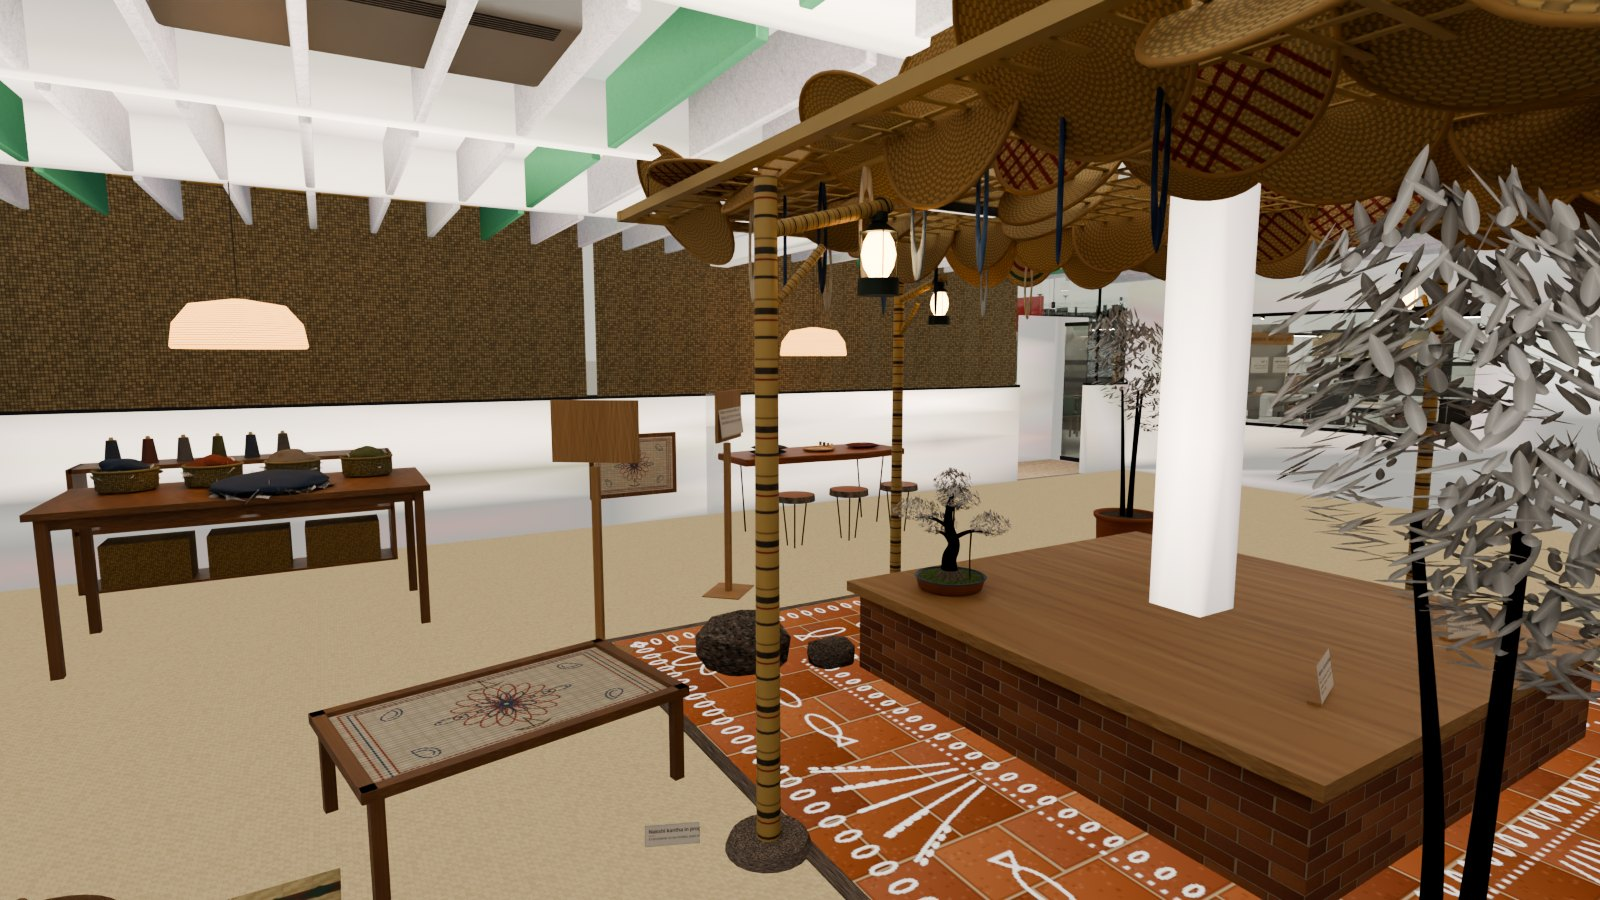
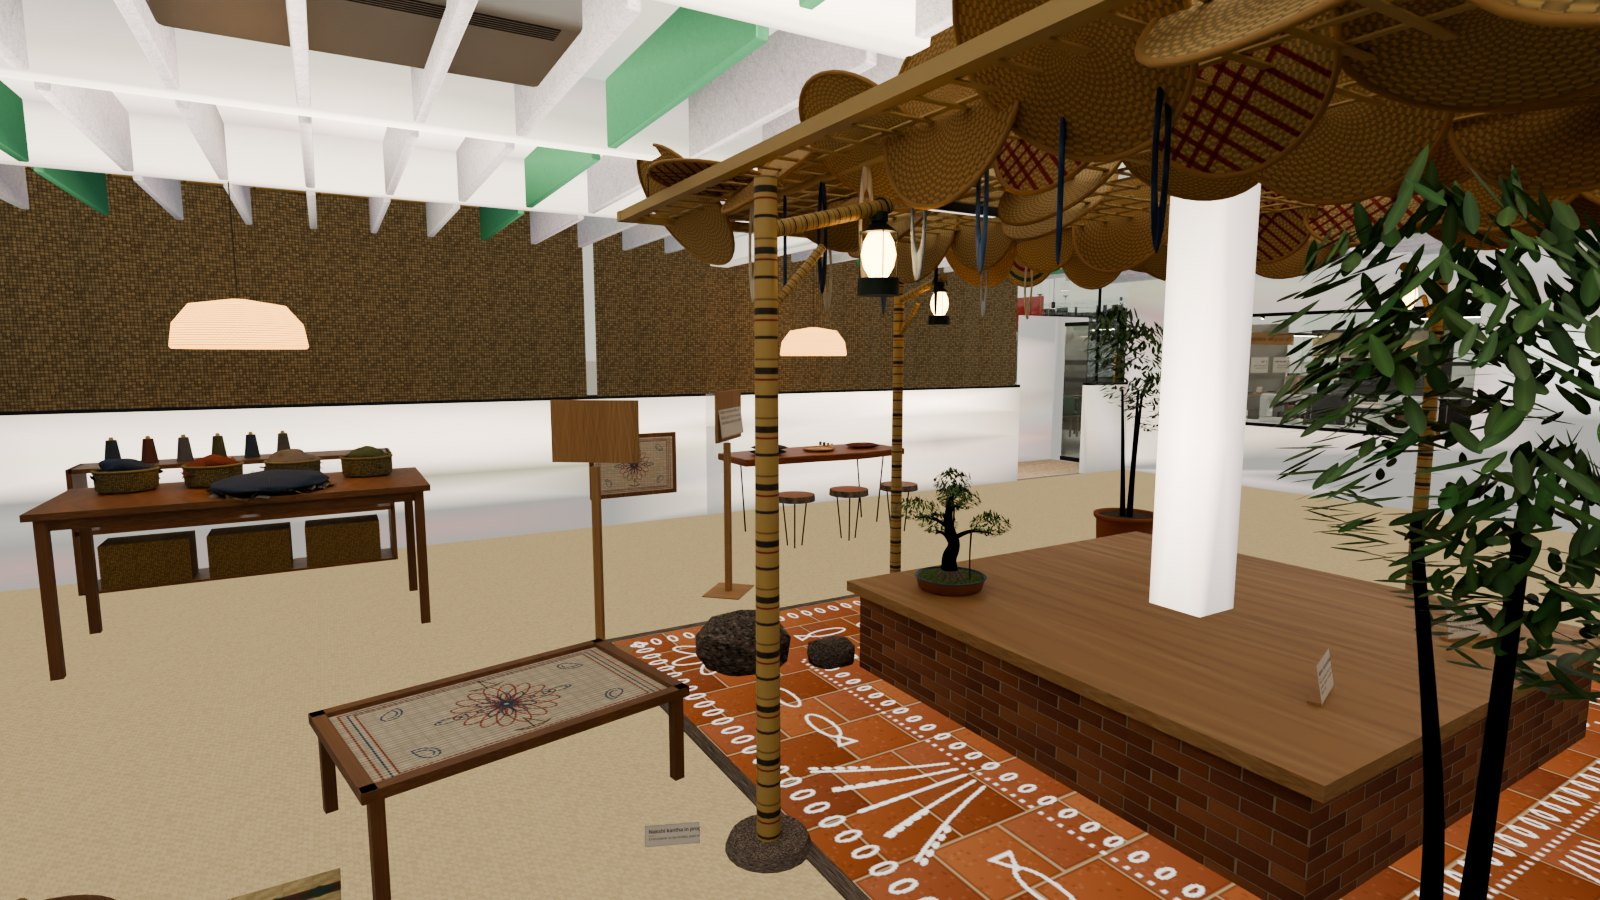
Work in progress: one-line footer while a phone walks (tap for the whole note), gallery check, stop 10 render with green leaves
Claude-Session: https://claude.ai/code/session_019J6nTRSYGkqYLBQiQa9fAH

Changed region(s): [[0.7812, 0.1556, 1.0, 0.7778], [0.6562, 0.3422, 0.7188, 0.4356], [0.5625, 0.5289, 0.625, 0.5911]]

diff --git a/GARMENT_OFFICE_REALISM_UPGRADE/08_REALISTIC/viewer/app.js b/GARMENT_OFFICE_REALISM_UPGRADE/08_REALISTIC/viewer/app.js
@@ -730,6 +730,7 @@ function setMode(m) {
   if (m !== 'walk' && m !== 'rooms' && S.gyro?.on) toggleGyro();
   if (m === 'walk') showWalkHelp();
   document.body.classList.toggle('walk-compact', WALK_ARROWS && COARSE && m === 'walk');
+  $('disclaimer').classList.remove('open'); measureChrome();   // the footer is one line while a phone walks
   $('minimap').classList.toggle('hidden', !(m === 'walk' || m === 'tour'));
   if (m === 'tour' || m === 'walk') closeSide();
   controls.enabled = m === 'overview' && !flight;
@@ -1032,6 +1033,7 @@ async function toggleGyro() {
 }
 $('bGyro').onclick = toggleGyro;
 $('infoTitle').addEventListener('click', () => { if (document.body.classList.contains('walk-compact')) $('info').classList.toggle('open'); });   // phones walking: tap the room name for the room text
+$('disclaimer').addEventListener('click', () => { if (document.body.classList.contains('walk-compact')) { $('disclaimer').classList.toggle('open'); measureChrome(); } });   // and tap the footer for the whole note
 
 // a short help card the first time a phone walks
 function showWalkHelp() {

diff --git a/GARMENT_OFFICE_REALISM_UPGRADE/08_REALISTIC/viewer/style.css b/GARMENT_OFFICE_REALISM_UPGRADE/08_REALISTIC/viewer/style.css
@@ -122,6 +122,7 @@ body.walk-compact #info:not(.open) #infoText, body.walk-compact #info:not(.open)
 body.walk-compact #info { padding: 9px 12px } body.walk-compact #info h2 { margin: 0; font-size: 16px; cursor: pointer }
 body.walk-compact #info h2::after { content: "  \25BE"; color: var(--mint); font-size: 12px } body.walk-compact #info.open h2::after { content: "  \25B4" }
 body.walk-compact #info .row { margin-top: 8px } body.walk-compact #info .row button { padding: 6px 10px; font-size: 12.5px }
+body.walk-compact #disclaimer:not(.open) { white-space: nowrap; overflow: hidden; text-overflow: ellipsis; cursor: pointer }   /* phones walking: one line, tap for the whole note */
 #walkhelp { position: fixed; top: calc(var(--top-h) + 48px); left: 50%; transform: translateX(-50%); z-index: 12; width: min(360px, calc(100vw - 2 * var(--gap))); padding: 16px 18px 14px }
 #walkhelp h3 { margin: 0 0 8px; font-size: 16px }
 #walkhelp ul { margin: 0 0 12px; padding-left: 18px; display: grid; gap: 6px; font-size: 13.5px; line-height: 1.4 }

diff --git a/GARMENT_OFFICE_REALISM_UPGRADE/08_REALISTIC/qa/bel-20261030/bel_gallery_check.py b/GARMENT_OFFICE_REALISM_UPGRADE/08_REALISTIC/qa/bel-20261030/bel_gallery_check.py
@@ -1,0 +1,90 @@
+"""The tour in images on the proposal route (31 Oct 2026), LOCAL Chromium via serve_preview.py. Desktop and phone (390 x 844, touch):
+- the welcome card offers "Images" as a fourth way, and the toolbar has an Images button;
+- the grid shows one card per tour stop that has an image, in tour order, each with its stop number, title and kind
+  (gold "AI concept image · fictional people" or green "Rendered from the 3D model · no people"), and the note about both kinds;
+- every card's thumbnail loads, and on a phone the grid fits the width (two columns, no sideways scroll);
+- Esc (desktop) or the close button (phone) closes it; a tap on the stop 5 card starts the tour at stop 5 and shows its render;
+- ?images=1 opens the grid straight away.
+python3 -I bel_gallery_check.py --out DIR [--url URL]"""
+import argparse, json
+from pathlib import Path
+from playwright.sync_api import sync_playwright
+
+p = argparse.ArgumentParser()
+p.add_argument('--url', default='http://127.0.0.1:8790/stage2-concept/')
+p.add_argument('--out', required=True)
+a = p.parse_args(); out = Path(a.out); out.mkdir(parents=True, exist_ok=True)
+R = {'url': a.url, 'scope': 'LOCAL Chromium (SwiftShader) via serve_preview.py; touch emulated; not a real phone or Safari', 'runs': {}, 'errors': [], 'http_errors': []}
+shown = "id => { const e = document.getElementById(id); return !!e && !e.hidden && !e.classList.contains('hidden') && getComputedStyle(e).display !== 'none' && e.getBoundingClientRect().width > 0; }"
+photo_on = "(() => { const p = document.getElementById('photo'); return !p.classList.contains('hidden') && p.classList.contains('show'); })()"
+ready = 'window.__viewer?.ready && __viewer.dressing && __viewer.dressing.concept'
+with sync_playwright() as pw:
+    b = pw.chromium.launch(executable_path='/usr/bin/chromium', headless=True, args=['--use-gl=angle', '--use-angle=swiftshader', '--enable-unsafe-swiftshader'])
+    for name, args in (('desktop', {'viewport': {'width': 1440, 'height': 900}}),
+                       ('phone', {'viewport': {'width': 390, 'height': 844}, 'is_mobile': True, 'has_touch': True, 'device_scale_factor': 2})):
+        ctx = b.new_context(**args); page = ctx.new_page(); run = {}
+        page.on('pageerror', lambda e: R['errors'].append(f'{name}: ' + str(e)[:300]))
+        page.on('response', lambda r: R['http_errors'].append({'url': r.url, 'status': r.status}) if r.status >= 400 else None)
+        page.goto(a.url + '?welcome=1', wait_until='domcontentloaded', timeout=60000)
+        page.wait_for_function(ready, timeout=300000); page.wait_for_timeout(800)
+        cfg = page.evaluate("window.__TOUR_CONFIG")
+        expected = [i + 1 for i, t in enumerate(cfg['tour']) if t['camera'] in cfg['conceptStills']]
+        kinds = {i + 1: cfg['conceptStills'][t['camera']]['kind'] for i, t in enumerate(cfg['tour']) if t['camera'] in cfg['conceptStills']}
+        run['welcome_way'] = page.evaluate(f"({shown})('wGallery')") and page.evaluate("document.querySelector('.ways').classList.contains('four')")
+        run['toolbar_button'] = page.evaluate(f"({shown})('mGallery')")
+        page.screenshot(path=str(out / f'{name}_welcome.png'), timeout=120000)
+        page.click('#wGallery'); page.wait_for_timeout(500)
+        run['opened_from_welcome'] = page.evaluate(f"({shown})('gallery')") and not page.evaluate(f"({shown})('welcome')")
+        cards = page.evaluate("[...document.querySelectorAll('#gGrid .gcard')].map(c => ({ stop: +c.dataset.stop, num: c.querySelector('.gnum').textContent, title: c.querySelector('b').textContent, kind: c.classList.contains('render') ? 'render' : 'ai', tag: c.querySelector('em').textContent, src: c.querySelector('img').getAttribute('src') }))")
+        run['cards'] = len(cards); run['stops_with_images'] = len(expected)
+        run['order_ok'] = [c['stop'] for c in cards] == expected and all(c['num'] == f"Stop {c['stop']}" for c in cards)
+        run['kinds_ok'] = all(c['kind'] == kinds[c['stop']] and c['tag'] == cfg['galleryKinds'][c['kind']] for c in cards)
+        run['titles_ok'] = all(c['title'] == cfg['tour'][c['stop'] - 1]['title'] for c in cards)
+        run['thumbs_used'] = sum(1 for c in cards if '/thumbs/' in c['src'])
+        run['note_ok'] = page.evaluate("document.getElementById('gNote').textContent") == cfg['galleryNote']
+        loaded = page.evaluate("""async () => Promise.all([...document.querySelectorAll('#gGrid img')].map(img => new Promise(ok => { const i = new Image(); i.onload = () => ok(i.naturalWidth); i.onerror = () => ok(0); i.src = img.src; })))""")
+        run['thumbs_loaded'] = sum(1 for w in loaded if w > 0)
+        page.wait_for_timeout(1500); page.screenshot(path=str(out / f'{name}_gallery.png'), timeout=120000)
+        geo = page.evaluate("(() => { const g = document.getElementById('gGrid'); const cols = getComputedStyle(g).gridTemplateColumns.split(' ').length; return { cols, sideways: g.scrollWidth > g.clientWidth + 1, page_sideways: document.documentElement.scrollWidth > innerWidth + 1 }; })()")
+        run['grid'] = geo
+        if name == 'phone':
+            page.evaluate("document.getElementById('gGrid').scrollTop = 99999"); page.wait_for_timeout(1200)
+            page.screenshot(path=str(out / f'{name}_gallery_end.png'), timeout=120000)
+            page.click('#gClose')
+        else:
+            page.keyboard.press('Escape')
+        page.wait_for_timeout(400)
+        run['closed'] = not page.evaluate(f"({shown})('gallery')")
+        # the toolbar button opens it again; a tap on stop 5 starts the tour there
+        page.click('#mGallery'); page.wait_for_timeout(400)
+        run['opened_from_toolbar'] = page.evaluate(f"({shown})('gallery')")
+        page.click('#gGrid .gcard[data-stop="5"]')
+        page.wait_for_timeout(400)
+        run['gallery_closed_on_tap'] = not page.evaluate(f"({shown})('gallery')")
+        run['tour_stop'] = page.evaluate("document.getElementById('tCount').textContent")
+        run['mode'] = page.evaluate("document.body.dataset.mode")
+        try:
+            page.wait_for_function(photo_on, timeout=90000)
+            run['stop5_image'] = page.evaluate("document.getElementById('photoImg').getAttribute('src')")
+            run['stop5_tag'] = page.evaluate("document.querySelector('#photo .photo-tag').textContent")
+        except Exception:
+            run['stop5_image'] = None; run['stop5_tag'] = None
+        page.wait_for_timeout(1000); page.screenshot(path=str(out / f'{name}_stop5_from_gallery.png'), timeout=120000)
+        ctx.close()
+        # a link straight to the images
+        ctx = b.new_context(**args); page = ctx.new_page()
+        page.on('pageerror', lambda e: R['errors'].append(f'{name} link: ' + str(e)[:300]))
+        page.goto(a.url + '?images=1', wait_until='domcontentloaded', timeout=60000)
+        page.wait_for_function(ready, timeout=300000); page.wait_for_timeout(600)
+        run['link_opens'] = page.evaluate(f"({shown})('gallery')") and not page.evaluate(f"({shown})('welcome')")
+        ctx.close()
+        ok = (run['welcome_way'] and run['toolbar_button'] and run['opened_from_welcome'] and run['cards'] == len(expected) > 0 and run['order_ok'] and run['kinds_ok']
+              and run['titles_ok'] and run['note_ok'] and run['thumbs_loaded'] == run['cards'] and run['thumbs_used'] == run['cards'] and not geo['sideways'] and not geo['page_sideways']
+              and run['closed'] and run['opened_from_toolbar'] and run['gallery_closed_on_tap'] and run['tour_stop'].startswith('Stop 5 of') and run['mode'] == 'tour'
+              and (run['stop5_image'] or '').endswith('render_CAM_04_Experience_Centre_A.jpg') and 'RENDERED FROM THE 3D MODEL' in (run['stop5_tag'] or '') and run['link_opens'])
+        if name == 'phone': ok = ok and geo['cols'] == 2
+        run['passed'] = bool(ok); R['runs'][name] = run; print(name, json.dumps(run), flush=True)
+    b.close()
+R['passed'] = all(r['passed'] for r in R['runs'].values()) and not R['errors'] and not R['http_errors']
+(out / 'gallery-check.json').write_text(json.dumps(R, indent=2) + '\n')
+print(json.dumps({'passed': R['passed'], 'errors': R['errors'][:5], 'http_errors': R['http_errors'][:5]}))

diff --git a/GARMENT_OFFICE_REALISM_UPGRADE/08_REALISTIC/qa/bel-20261030/bel_phone_walk_check.py b/GARMENT_OFFICE_REALISM_UPGRADE/08_REALISTIC/qa/bel-20261030/bel_phone_walk_check.py
@@ -1,6 +1,7 @@
 """Phone walking on the proposal route (the owner, 31 Oct: "walk the factory with a phone"), LOCAL Chromium via serve_preview.py.
 Phone (390 x 844, touch) and desktop runs:
 - the help card shows the first time a phone walks, and "Got it" closes it;
+- while a phone walks, the footer note is one line and a tap shows the whole note (a computer keeps the whole note);
 - a finger slides from the up arrow to the right arrow and the held direction follows it;
 - a tap (phone) or click (desktop) on the floor ahead sets a walk target and the visitor walks towards it;
 - "Look by moving the phone" shows on the phone, turns on, and a device-orientation event turns the view.
@@ -34,6 +35,12 @@ with sync_playwright() as pw:
             page.screenshot(path=str(out / f'{name}_help.png'), timeout=120000)
             page.click('#whOk'); page.wait_for_timeout(300)
         run['help_closed'] = not page.evaluate(f"({shown})('walkhelp')")
+        # the footer note: one line while a phone walks, the whole note on a tap (a computer keeps the whole note)
+        foot = "document.getElementById('disclaimer').offsetHeight"
+        run['footer_px'] = page.evaluate(foot)
+        if name == 'phone':
+            page.click('#disclaimer'); page.wait_for_timeout(200); run['footer_open_px'] = page.evaluate(foot)
+            page.click('#disclaimer'); page.wait_for_timeout(200); run['footer_closed_again_px'] = page.evaluate(foot)
         # slide from the up arrow to the right arrow
         up = page.locator('#pad button[data-k="KeyW"]').bounding_box(); right = page.locator('#pad button[data-k="KeyD"]').bounding_box()
         page.mouse.move(up['x'] + up['width'] / 2, up['y'] + up['height'] / 2); page.mouse.down(); page.wait_for_timeout(400)
@@ -69,7 +76,8 @@ with sync_playwright() as pw:
             page.click('#bGyro'); page.wait_for_timeout(200); run['gyro_off_again'] = not page.evaluate("window.__viewer.gyro.on")
         ctx.close()
         ok = run['help_closed'] and run['held_first'] == ['KeyW'] and run['held_after_slide'] == ['KeyD'] and run['released'] and run['target_set'] and run.get('closer_to_target_m', 0) > 0.02
-        if name == 'phone': ok = ok and run['help_shown'] and run['gyro_button_shown'] and run.get('gyro_on') and abs(run.get('gyro_turned_deg', 0)) > 20 and run.get('gyro_off_again')
+        if name == 'phone': ok = (ok and run['help_shown'] and run['gyro_button_shown'] and run.get('gyro_on') and abs(run.get('gyro_turned_deg', 0)) > 20 and run.get('gyro_off_again')
+                                  and run['footer_px'] < 30 and run['footer_open_px'] > run['footer_px'] + 10 and run['footer_closed_again_px'] == run['footer_px'])
         else: ok = ok and not run['help_shown'] and not run['gyro_button_shown']
         run['passed'] = bool(ok); R['runs'][name] = run; print(name, json.dumps(run), flush=True)
     b.close()
